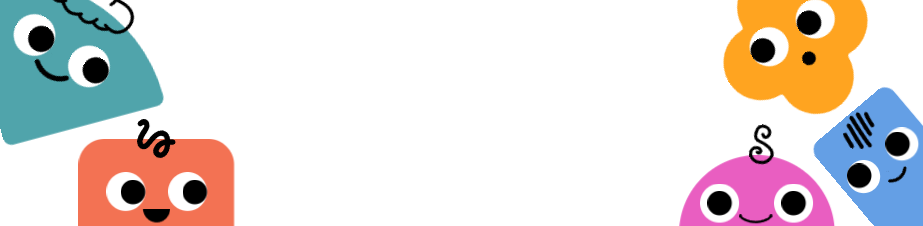
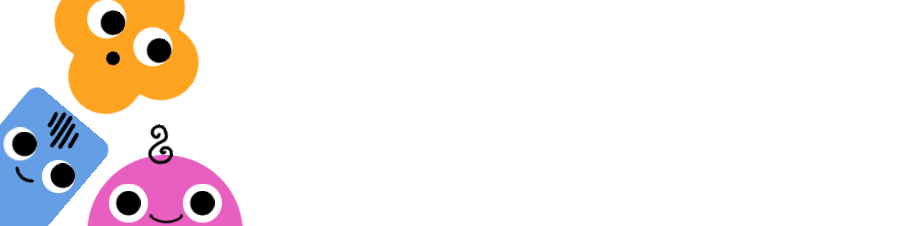
송은선

diff --git a/main/static/css/event.css b/main/static/css/event.css
@@ -25,8 +25,6 @@ ul{list-style:none;}
 .mainImg{
     position: absolute;
     width: 1100px;
-
-    opacity:0.3;
 }
 .mainImg img{
     width: 100%;

diff --git a/main/static/css/history.css b/main/static/css/history.css
@@ -26,7 +26,6 @@ ul{list-style:none;}
     position: absolute;
     width: 1100px;
 
-    opacity:0.3;
 }
 .mainImg img{
     width: 100%;

diff --git a/main/static/css/toy_list.css b/main/static/css/toy_list.css
@@ -27,7 +27,6 @@ ul{list-style:none;}
     position: absolute;
     width: 1100px;
 
-    opacity:0.3;
 }
 .mainImg img{
     width: 100%;

diff --git a/main/static/css/detail.css b/main/static/css/detail.css
@@ -25,8 +25,6 @@ ul{list-style:none;}
 .mainImg{
     position: absolute;
     width: 1100px;
-
-    
 }
 .mainImg img{
     width: 100%;
